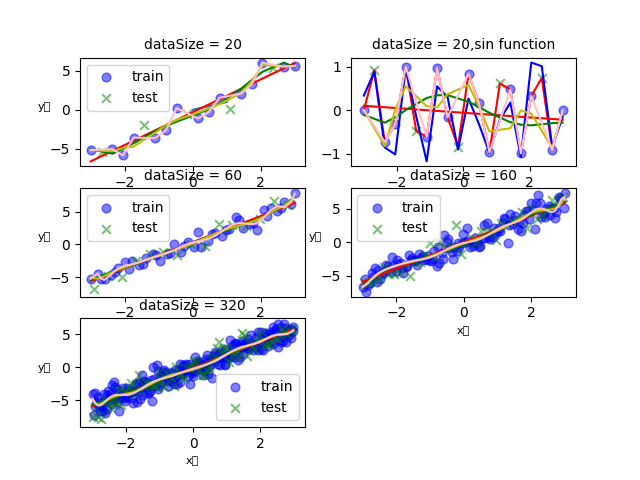
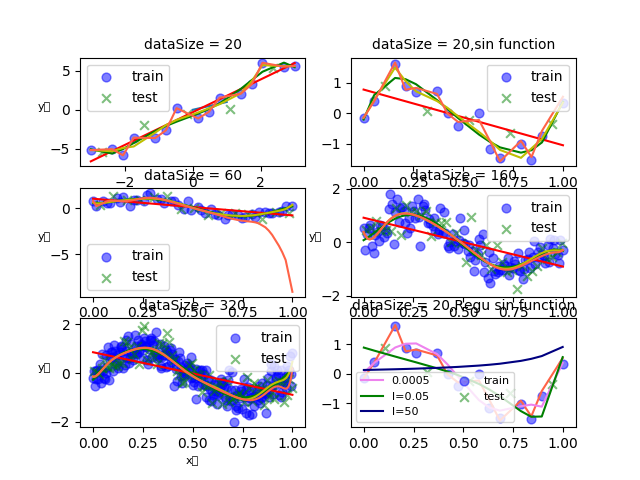
Add files via upload

diff --git a/hw1.py b/hw1.py
@@ -57,12 +57,20 @@ sinYn = np.sin(sinX*math.pi*2) + noise2
 
 print("degree:1 dataSize:20")
 fun.linearRegression(sinX,sinYn,1,20,0)
+fun.Five_Fold(sinX,sinYn,1,20,0)
+fun.LeaveOneOut(sinX,sinYn,1,20,0)
 print("degree:5 dataSize:20")
 fun.linearRegression(sinX,sinYn,5,20,0)
+fun.Five_Fold(sinX,sinYn,5,20,0)
+fun.LeaveOneOut(sinX,sinYn,5,20,0)
 print("degree:10 dataSize:20")
 fun.linearRegression(sinX,sinYn,10,20,0)
+fun.Five_Fold(sinX,sinYn,10,20,0)
+fun.LeaveOneOut(sinX,sinYn,10,20,0)
 print("degree:14 dataSize:20")
 fun.linearRegression(sinX,sinYn,14,20,0)
+fun.Five_Fold(sinX,sinYn,14,20,0)
+fun.LeaveOneOut(sinX,sinYn,14,20,0)
 
 plt.legend(loc='best')
 
@@ -72,9 +80,10 @@ print('')
 
 
 #######d-60######
-x = np.linspace(3,-3,60)
-noise=np.random.normal(0,1,60)
-y=2*x+noise
+x = np.linspace(0,1,60)
+noise=np.random.normal(0,0.4,60)
+y = np.sin(x * math.pi*2) + noise
+
 plt.subplot(3,2,3)
 plt.title('dataSize = 60',fontsize=10)
 
@@ -106,9 +115,9 @@ plt.ylabel('y軸',fontsize=8,rotation=0)
 plt.legend(loc='best')
 
 #######d-160######
-x = np.linspace(3,-3,160)
-noise=np.random.normal(0,1,160)
-y=2*x+noise
+x = np.linspace(0,1,160)
+noise=np.random.normal(0,0.4,160)
+y = np.sin(x * math.pi*2) + noise
 plt.subplot(3,2,4)
 plt.title('dataSize = 160',fontsize=10)
 
@@ -140,9 +149,9 @@ plt.ylabel('y軸',fontsize=8,rotation=0)
 plt.legend(loc='best')
 
 #######d-320######
-x = np.linspace(3,-3,320)
-noise=np.random.normal(0,1,320)
-y=2*x+noise
+x = np.linspace(0,1,320)
+noise=np.random.normal(0,0.4,320)
+y = np.sin(x * math.pi*2) + noise
 plt.subplot(3,2,5)
 plt.title('dataSize = 320',fontsize=10)
 
